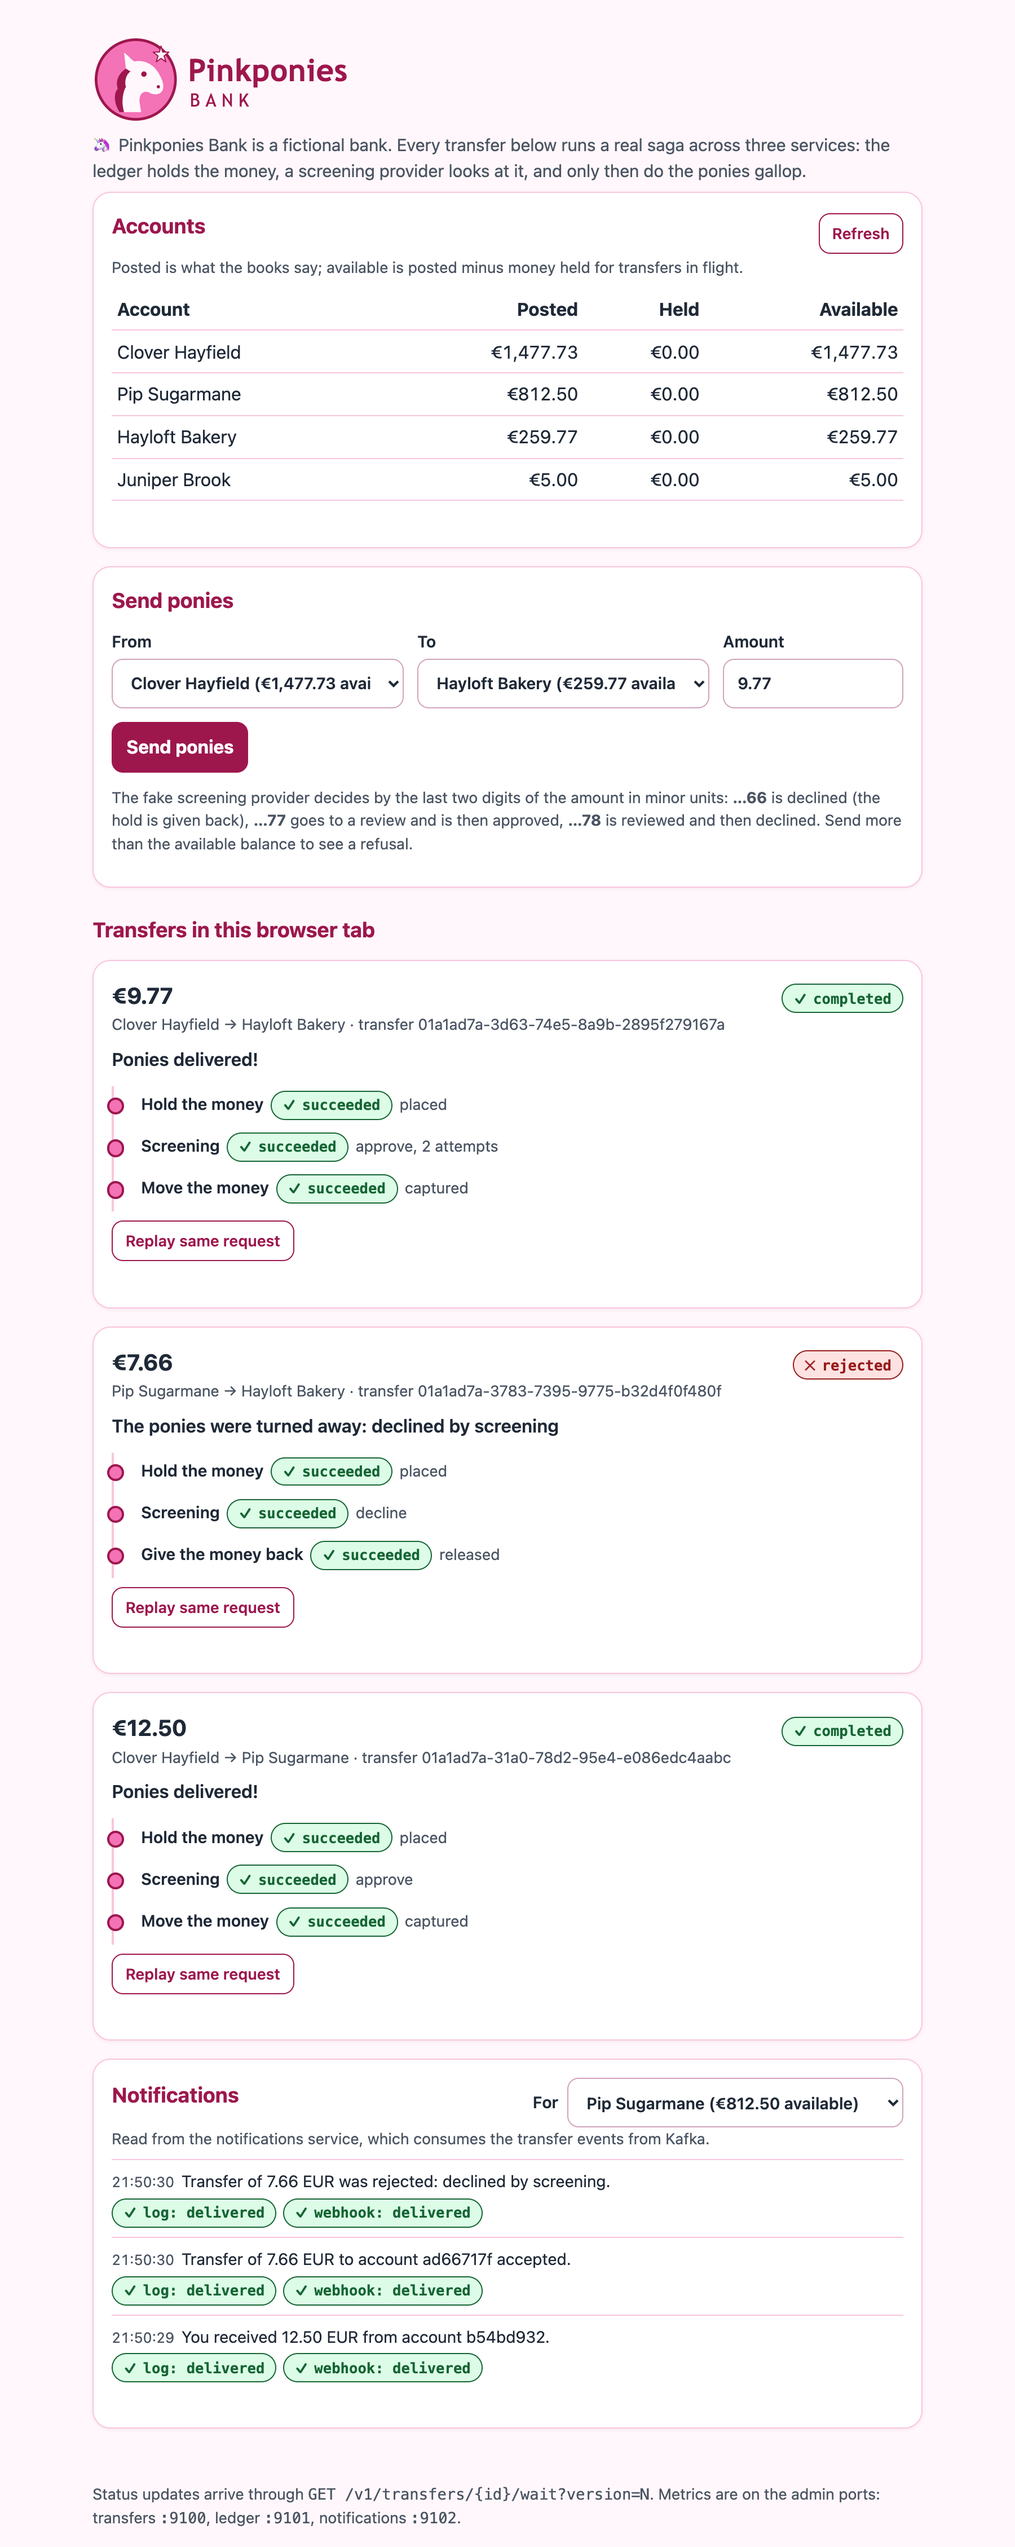
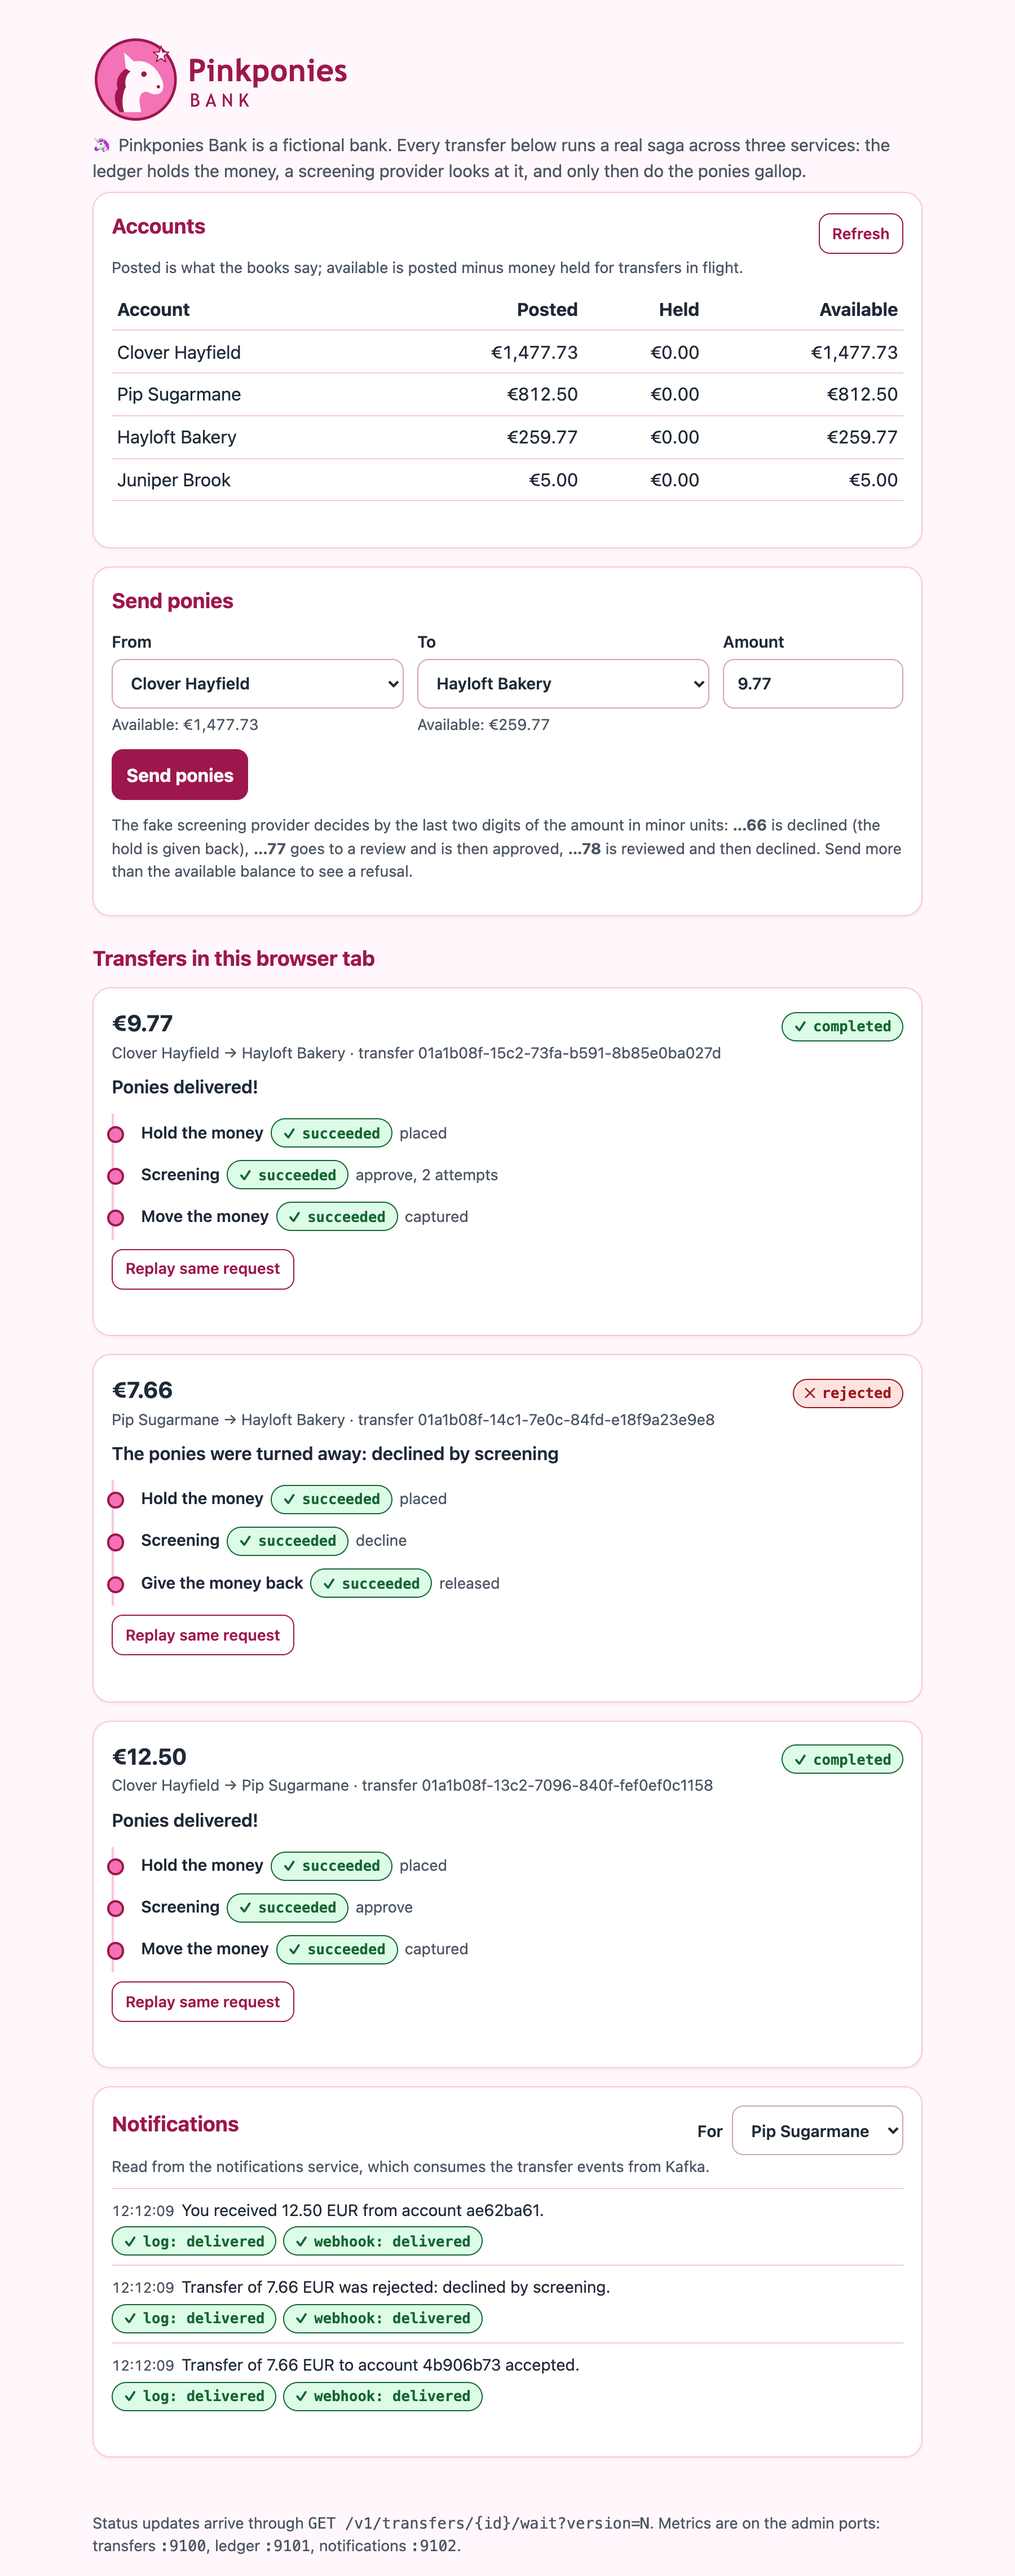
README screenshot: the transfer form with names in the selects and the balances below them

diff --git a/README.md b/README.md
@@ -36,7 +36,7 @@ Then open <http://localhost:8080>, send ponies from one account to
 another, and watch the saga: the hold, the screening, the capture or the
 release, and the notifications that follow.
 
-<p align="center"><img src="docs/screenshot.png" alt="The web UI: accounts, the transfer form, two transfers with their saga steps, and the notifications feed" width="640"></p>
+<p align="center"><img src="docs/screenshot.png" alt="The web UI: accounts, the transfer form, three transfers with their saga steps, and the notifications feed" width="640"></p>
 
 Or with curl:
 
